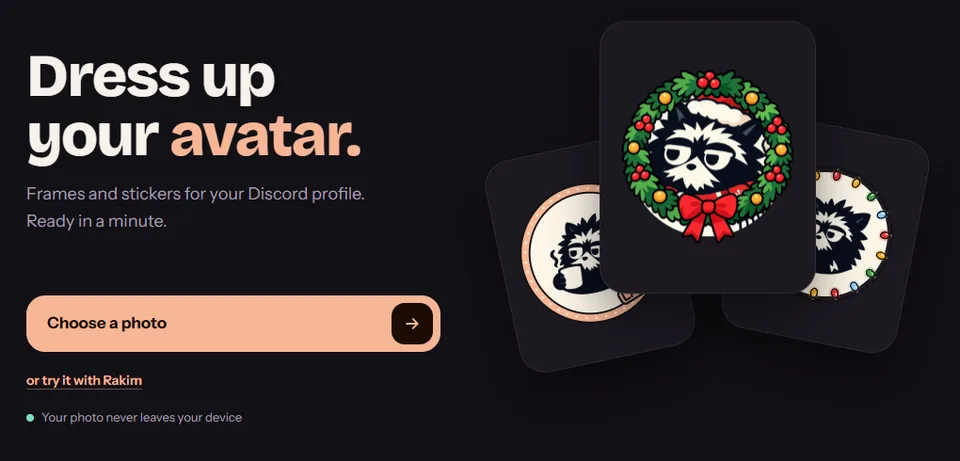
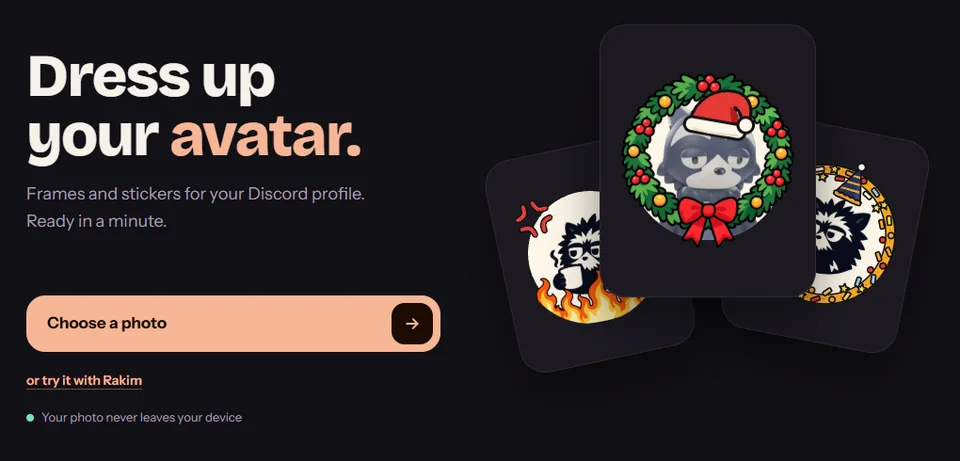
feat(projects): refine live demo cue and rebalance featured projects
Replace the Live badge with a LIVE DEMO tag in the Featured chip style and
a hover/focus preview overlay. Feature Song Workshop, unfeature the
portfolio itself, and refresh the Avatar Studio thumbnail.

Changed region(s): [[0.625, 0.1518, 0.9375, 0.6681], [0.5312, 0.3948, 0.6875, 0.6985]]

diff --git a/src/components/react/ProjectCard.tsx b/src/components/react/ProjectCard.tsx
@@ -39,6 +39,15 @@ const ExternalIcon: React.FC = () => (
     </svg>
 );
 
+const PlayIcon: React.FC<{ className?: string }> = ({ className }) => (
+    <svg aria-hidden="true" className={className} viewBox="0 0 24 24">
+        <path
+            fill="currentColor"
+            d="M7 4.5v15a1 1 0 0 0 1.5.86l12.5-7.5a1 1 0 0 0 0-1.72L8.5 3.64A1 1 0 0 0 7 4.5Z"
+        />
+    </svg>
+);
+
 export const ProjectCard: React.FC<ProjectCardProps> = ({
     title,
     description,
@@ -122,15 +131,23 @@ export const ProjectCard: React.FC<ProjectCardProps> = ({
                 {/* Overlay */}
                 <div className="absolute inset-0 bg-gunmetal/20 group-hover:bg-gunmetal/0 transition-colors duration-300" />
 
-                {/* Live badge: the project has a running demo */}
+                {/* Live demo: a quiet tag at rest, a preview call to action on hover */}
                 {demo && !inProgress && (
-                    <span className="absolute top-3 right-3 z-10 inline-flex items-center gap-1.5 px-2.5 py-1 rounded-full bg-gunmetal/80 backdrop-blur-md border border-moon/30 text-[11px] font-semibold tracking-wide text-moon">
-                        <span className="relative flex w-1.5 h-1.5">
-                            <span className="absolute inset-0 rounded-full bg-moon opacity-60 motion-safe:animate-ping" />
-                            <span className="relative w-1.5 h-1.5 rounded-full bg-moon" />
+                    <>
+                        <span className="absolute bottom-3 left-3 z-10 inline-flex items-center gap-1.5 px-2 py-1 rounded bg-gunmetal/85 backdrop-blur-md border border-moon/40 text-[10px] font-bold tracking-wider uppercase text-moon transition-opacity duration-300 group-hover:opacity-0 group-focus-within:opacity-0">
+                            <PlayIcon className="w-2.5 h-2.5" />
+                            {labels.liveBadge}
                         </span>
-                        {labels.liveBadge}
-                    </span>
+                        <div
+                            aria-hidden="true"
+                            className="absolute inset-0 z-10 flex items-end justify-center pb-5 bg-gradient-to-t from-gunmetal/90 via-gunmetal/30 to-transparent opacity-0 transition-opacity duration-300 group-hover:opacity-100 group-focus-within:opacity-100"
+                        >
+                            <span className="inline-flex items-center gap-2 px-4 py-2 rounded-full bg-moon text-gunmetal text-sm font-semibold shadow-[0_0_24px_color-mix(in_srgb,var(--color-moon)_45%,transparent)] motion-safe:translate-y-2 motion-safe:transition-transform motion-safe:duration-300 group-hover:translate-y-0 group-focus-within:translate-y-0">
+                                <PlayIcon className="w-3.5 h-3.5" />
+                                {labels.demo}
+                            </span>
+                        </div>
+                    </>
                 )}
 
                 {/* In Progress Overlay */}

diff --git a/src/i18n/ui.ts b/src/i18n/ui.ts
@@ -46,12 +46,12 @@ export const ui = {
         "ui.more": "More",
         "ui.noProjects": "No projects found for this filter.",
         "ui.clearFilters": "Clear filters",
-        "project.demo": "Live demo",
+        "project.demo": "Open demo",
         "project.code": "Code",
         "project.site": "Website",
         "project.featured": "Featured",
         "project.inProgress": "In construction",
-        "project.liveBadge": "Live",
+        "project.liveBadge": "Live demo",
         "ui.sortBy": "Sort by Date",
         "ui.sortDesc": "Newest",
         "ui.sortAsc": "Oldest",
@@ -118,12 +118,12 @@ export const ui = {
         "ui.more": "Más",
         "ui.noProjects": "No se encontraron proyectos para este filtro.",
         "ui.clearFilters": "Limpiar filtros",
-        "project.demo": "Demo en vivo",
+        "project.demo": "Abrir demo",
         "project.code": "Código",
         "project.site": "Sitio web",
         "project.featured": "Destacado",
         "project.inProgress": "En construcción",
-        "project.liveBadge": "En vivo",
+        "project.liveBadge": "Demo en vivo",
         "ui.sortBy": "Ordenar por Fecha",
         "ui.sortDesc": "Más recientes",
         "ui.sortAsc": "Más antiguos",
@@ -189,12 +189,12 @@ export const ui = {
         "ui.more": "詳細",
         "ui.noProjects": "該当するプロジェクトが見つかりませんでした。",
         "ui.clearFilters": "フィルターをクリア",
-        "project.demo": "ライブデモ",
+        "project.demo": "デモを開く",
         "project.code": "コード",
         "project.site": "ウェブサイト",
         "project.featured": "注目",
         "project.inProgress": "制作中",
-        "project.liveBadge": "公開中",
+        "project.liveBadge": "ライブデモ",
         "ui.sortBy": "日付で並べ替え",
         "ui.sortDesc": "新しい順",
         "ui.sortAsc": "古い順",

diff --git a/src/content/projects/en/song-workshop.md b/src/content/projects/en/song-workshop.md
@@ -3,7 +3,7 @@ title: "Song Workshop"
 description: "Original songs written with Claude Code and sung by Suno, published with their lyrics in every language (Japanese with hiragana and romaji), Suno's takes, the exact prompt and the process behind each one. A four-phase workflow (discover, compose, generate, learn) driven by Claude Code commands, a Python audio analyzer with librosa and a static site generated from the song packages."
 tags: ["Claude Code", "AI Agents", "Python", "JavaScript"]
 date: 2026-11-27
-featured: false
+featured: true
 link: "https://github.com/MeloDev2111/suno-songwriter"
 demo: "https://melodev2111.github.io/suno-songwriter/"
 image: "../../../assets/projects/song-workshop.webp"

diff --git a/src/content/projects/en/portfolio.md b/src/content/projects/en/portfolio.md
@@ -3,7 +3,7 @@ title: "MeloDev Portfolio"
 description: "High-performance personal portfolio built with Astro 7, React 19, and Tailwind CSS v4 to showcase technical expertise in Backend Architecture and Cloud Solutions."
 tags: ["Astro", "React", "TailwindCSS", "TypeScript", "CI/CD"]
 date: 2026-02-12
-featured: true
+featured: false
 link: "https://github.com/MeloDev2111/portfolio"
 image: "../../../assets/projects/portfolio.png"
 ---
